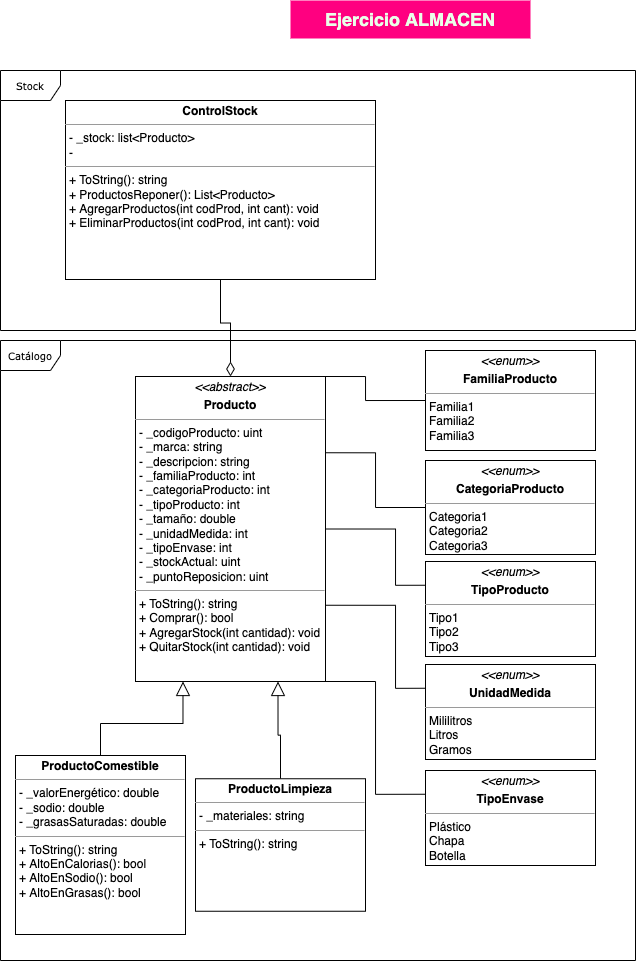
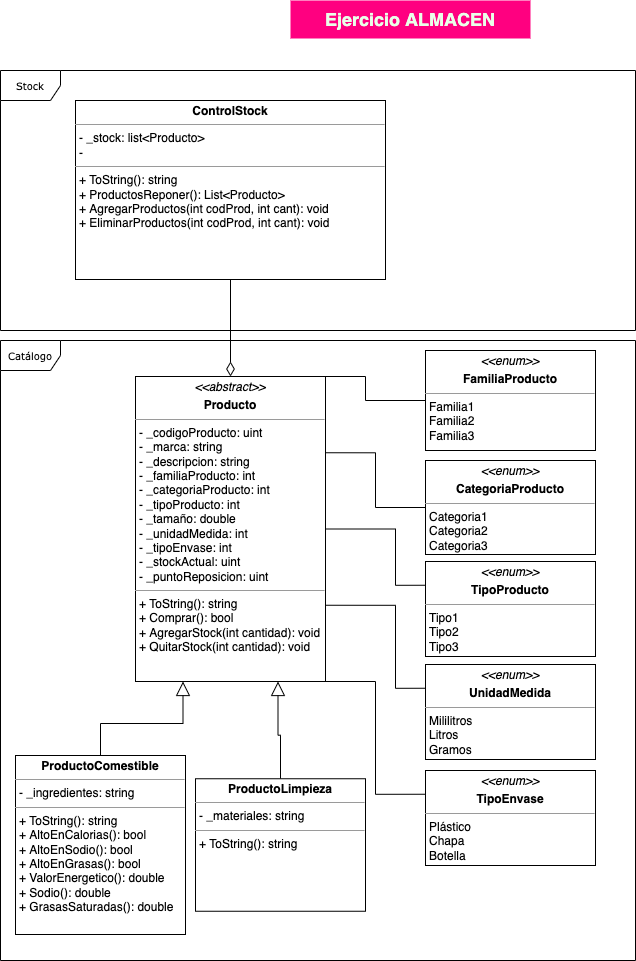
2da actualización - Modelado final
Se termina el modelo con:
* Diagrama UML
* Herencia
* Uso de excepciones personalizadas

diff --git a/CAI_05-Almacen.Dominio/ProductoComestible.cs b/CAI_05-Almacen.Dominio/ProductoComestible.cs
@@ -4,17 +4,14 @@ namespace CAI_05Almacen.Dominio
     public class ProductoComestible : Producto
     {
         #region Variables
+        string _ingredientes;
         double _valorEnergetico;
         double _sodio;
         double _grasasSaturadas;
-        string _ingredientes;
 
         #endregion
 
         #region Propiedades
-        public double ValorEnergetico { get => _valorEnergetico; set => _valorEnergetico = value; }
-        public double Sodio { get => _sodio; set => _sodio = value; }
-        public double GrasasSaturadas { get => _grasasSaturadas; set => _grasasSaturadas = value; }
         public string Ingredientes { get => _ingredientes; set => _ingredientes = value; }
 
         #endregion
@@ -32,9 +29,9 @@ namespace CAI_05Almacen.Dominio
             : base(productoComestible.CodigoProducto, productoComestible.Marca, productoComestible.Descripcion, productoComestible.Tamaño, productoComestible.UnidadMedida, productoComestible.TipoEnvase, productoComestible.FamiliaProducto, productoComestible.CategoriaProducto, productoComestible.TipoProducto, productoComestible.StockActual, productoComestible.PuntoReposicion)
         {
             _ingredientes = productoComestible.Ingredientes;
-            _valorEnergetico = productoComestible.ValorEnergetico;
-            _sodio = productoComestible.Sodio;
-            _grasasSaturadas = productoComestible.GrasasSaturadas;
+            _valorEnergetico = productoComestible.ValorEnergetico();
+            _sodio = productoComestible.Sodio();
+            _grasasSaturadas = productoComestible.GrasasSaturadas();
         }
 
         #endregion
@@ -43,6 +40,33 @@ namespace CAI_05Almacen.Dominio
         public override string ToString()
         {
             return "Producto Comestible";
+        }
+        public void ValorEnergetico(double valor)
+        {
+            if (valor >= 0) { _valorEnergetico = valor; }
+            else { throw new NoSeAceptanValoresNegativosException(); }
+        }
+        public double ValorEnergetico()
+        {
+            return _valorEnergetico;
+        }
+        public void Sodio(double valor)
+        {
+            if (valor >= 0) { _sodio = valor; }
+            else { throw new NoSeAceptanValoresNegativosException(); }
+        }
+        public double Sodio()
+        {
+            return _sodio;
+        }
+        public void GrasasSaturadas(double valor)
+        {
+            if (valor >= 0) { _grasasSaturadas = valor; }
+            else { throw new NoSeAceptanValoresNegativosException(); }
+        }
+        public double GrasasSaturadas()
+        {
+            return _grasasSaturadas;
         }
         public bool AltoEnCalorias()
         {

diff --git a/CAI_05-Almacen.Dominio/ProductoLimpieza.cs b/CAI_05-Almacen.Dominio/ProductoLimpieza.cs
@@ -1,0 +1,37 @@
+using System;
+namespace CAI_05Almacen.Dominio
+{
+    public class ProductoLimpieza : Producto
+    {
+        #region Variables
+        string _materiales;
+        
+        #endregion
+
+        #region Propiedades
+        public string Materiales { get => _materiales; set => _materiales = value; }
+
+        #endregion
+
+        #region Constructores
+        public ProductoLimpieza(uint codigoProducto, string marca, string descripcion, double tamaño, int unidadMedida, int tipoEnvase, int familiaProducto, int categoriaProducto, int tipoProducto, uint stockActual, uint puntoReposicion, string materiales)
+            : base(codigoProducto, marca, descripcion, tamaño, unidadMedida, tipoEnvase, familiaProducto, categoriaProducto, tipoProducto, stockActual, puntoReposicion)
+        {
+            _materiales = materiales;
+        }
+        public ProductoLimpieza(ProductoLimpieza productoLimpieza)
+            : base(productoLimpieza.CodigoProducto, productoLimpieza.Marca, productoLimpieza.Descripcion, productoLimpieza.Tamaño, productoLimpieza.UnidadMedida, productoLimpieza.TipoEnvase, productoLimpieza.FamiliaProducto, productoLimpieza.CategoriaProducto, productoLimpieza.TipoProducto, productoLimpieza.StockActual, productoLimpieza.PuntoReposicion)
+        {
+            _materiales = productoLimpieza.Materiales;
+        }
+
+        #endregion
+
+        #region Métodos
+        public override string ToString()
+        {
+            return "Producto Limpieza";
+        }
+        #endregion
+    }
+}

diff --git a/CAI_05-Almacen.Dominio/ControlStock.cs b/CAI_05-Almacen.Dominio/ControlStock.cs
@@ -1,0 +1,39 @@
+using System;
+using System.Collections.Generic;
+
+namespace CAI_05Almacen.Dominio
+{
+    public class ControlStock
+    {
+        List<Producto> _stockCompleto = new List<Producto>();
+
+        /// <summary>
+        /// Se devuelve una lista con los productos que están por debajo del punto de reposición
+        /// </summary>
+        public List<Producto> ProductosParaReponer()
+        {
+            //Codigo
+            List<Producto> _productosParaReponer = new List<Producto>();
+            return _productosParaReponer;
+        }
+
+        /// <summary>
+        /// Con este método se aumentará la cantidad de stock del producto indicado
+        /// </summary>
+        /// <param name="codigoProducto">Producto que se trabajará</param>
+        /// <param name="cantidad">Cantidad de unidades a agregar</param>
+        public void AumentarStockProducto(int codigoProducto, uint cantidad)
+        {
+            //Codigo
+        }
+        /// <summary>
+        /// Con este método se disminuirá la cantidad de stock del producto indicado
+        /// </summary>
+        /// <param name="codigoProducto">Producto que se trabajará</param>
+        /// <param name="cantidad">Cantidad de unidades a quitar</param>
+        public void DisminuirStockProducto(int codigoProducto, uint cantidad)
+        {
+            //Codigo
+        }
+    }
+}

diff --git a/CAI_05-Almacen.Dominio/Excepciones.cs b/CAI_05-Almacen.Dominio/Excepciones.cs
@@ -3,7 +3,13 @@ namespace CAI_05Almacen.Dominio
 {
     public class ImposibleQuitarEstaCantidadException : Exception
     {
-        public ImposibleQuitarEstaCantidadException() : base ("No se puede quitar más del stock disponible.") 
+        public ImposibleQuitarEstaCantidadException() : base("No se puede quitar más del stock disponible.")
+        {
+        }
+    }
+    public class NoSeAceptanValoresNegativosException : Exception
+    {
+        public NoSeAceptanValoresNegativosException() : base("No se puede ingresar un valor negativo en esta propiedad.")
         {
         }
     }

diff --git a/CAI_05-Almacen.Dominio/Producto.cs b/CAI_05-Almacen.Dominio/Producto.cs
@@ -82,10 +82,5 @@ namespace CAI_05Almacen.Dominio
                 throw new ImposibleQuitarEstaCantidadException();
         }
         #endregion
-
-
-
-
-
     }
 }
